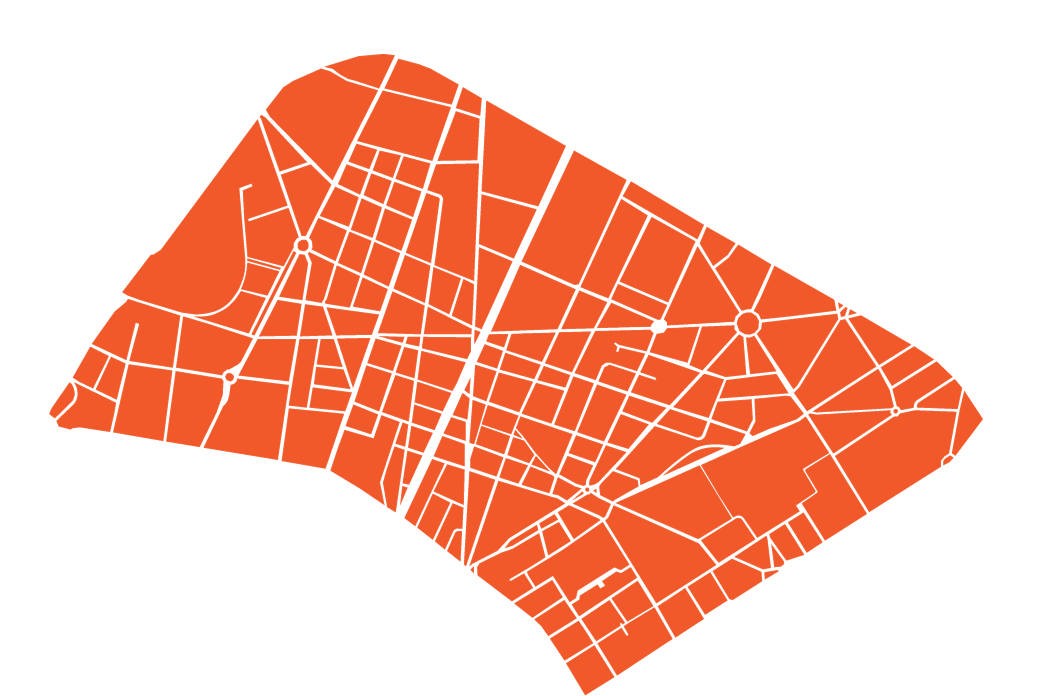
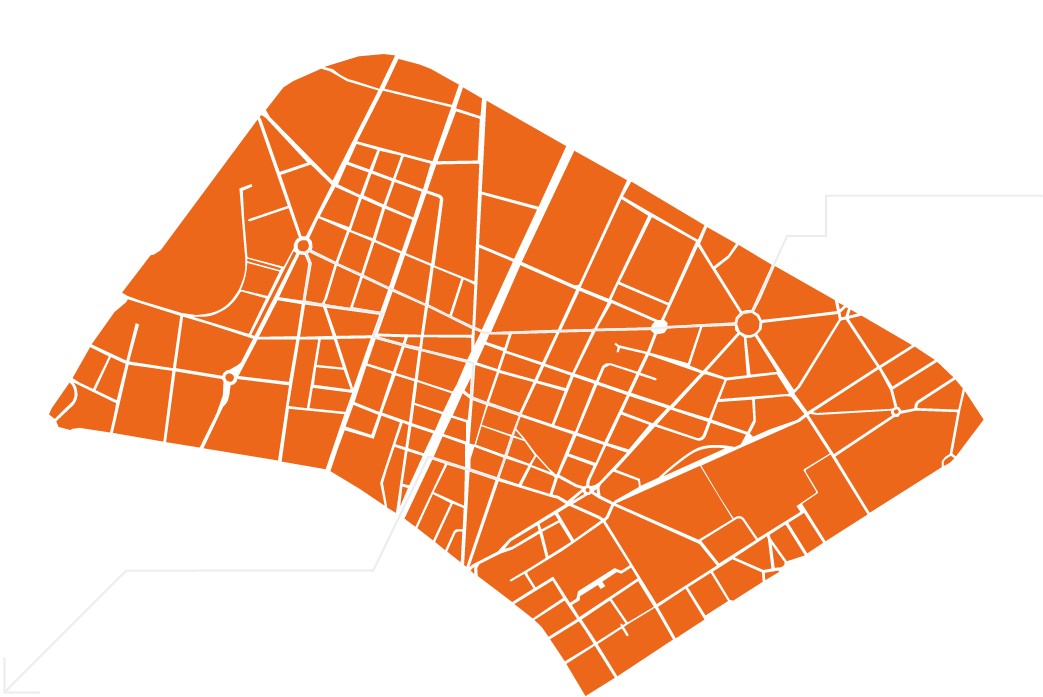
wip grafica

diff --git a/src/components/About.jsx b/src/components/About.jsx
@@ -1,4 +1,5 @@
 import './About.css'
+import ScrollingBanner from './ScrollingBanner'
 
 const About = () => {
     return (
@@ -8,7 +9,6 @@ const About = () => {
                     {/* Header */}
                     <h2 className="section-title">Call to Action <span className="text-accent">BarriEra / BarriE’</span></h2>
                     <h3 className="section-subtitle">Residenza artistica per giovani registi | <span className="text-white">Barriera di Milano (Torino)</span></h3>
-
                     <div className="text-block">
                         <p>
                             <span className="highlight-text">Barriera di Milano</span> è un quartiere che porta nel nome l’idea di confine, ma che nella vita quotidiana funziona più come un sistema di attraversamenti: lingue che si incrociano, generazioni che convivono, memorie che restano e visioni che spingono in avanti. <strong>BarriEra - BarriE’</strong> nasce da qui: dall’urgenza di trasformare il cinema in uno strumento di ascolto, di relazione e di restituzione.
@@ -23,7 +23,13 @@ const About = () => {
                             <strong>BarriEra / BarriE’</strong> diventa così una residenza artistica e, insieme, un esperimento collettivo: una produzione dal basso che trasforma l’osservazione in partecipazione, e il set in uno spazio di relazione.
                         </p>
                     </div>
+                </div>
+            </div>
 
+            <ScrollingBanner direction="right" />
+
+            <div className="container" style={{ marginTop: 'var(--spacing-md)' }}>
+                <div className="about-content">
                     <div className="bando-grid">
                         <div className="bando-column">
                             <h4 className="column-title">Obiettivo della call</h4>

diff --git a/src/index.css b/src/index.css
@@ -3,16 +3,16 @@
 
 :root {
   /* Colors - Blue/Red Palette */
-  --color-bg: #2559a9;
-  --color-surface: #1e4b8f;
+  --color-bg: #354F99;
+  --color-surface: #354F99;
   /* Slightly darker blue for gradients/surfaces */
   --color-primary: #ffffff;
   /* White text */
   --color-secondary: rgba(255, 255, 255, 1);
   /* Translucent white */
-  --color-accent: #f1592a;
+  --color-accent: #ec671a;
   /* Orange/Red accent */
-  --color-accent-glow: rgba(241, 89, 42, 0.4);
+  --color-accent-glow: rgba(237, 103, 26, 0.4);
 
   /* Typography */
   /* Fallback to geometric sans since 'Cy' is custom/unavailable. Outfit is a good match. */
@@ -53,6 +53,12 @@ body {
   overflow-x: hidden;
   -webkit-font-smoothing: antialiased;
   -moz-osx-font-smoothing: grayscale;
+  /*background-color: var(--color-bg);*/
+  background-image: url('./assets/texture-bg.png');
+  background-size: cover;
+  background-position: center;
+  background-attachment: fixed;
+  background-blend-mode: overlay;
 }
 
 h1,
@@ -114,4 +120,43 @@ button {
   display: flex;
   justify-content: center;
   align-items: center;
+}
+
+
+/* Scrolling Banner */
+.scrolling-banner-container {
+  width: 100vw;
+  position: relative;
+  overflow: hidden;
+  display: flex;
+  white-space: nowrap;
+  margin-top: var(--spacing-sm);
+}
+
+.scrolling-banner-wrapper {
+  display: flex;
+  height: 45px;
+  flex-wrap: nowrap;
+  animation: scroll-left 20s linear infinite;
+  border-bottom: 3px solid var(--color-accent);
+  border-top: 3px solid var(--color-accent);
+  align-items: center;
+}
+
+.scrolling-banner-img {
+  height: 30px;
+  /* Adjust as needed */
+  width: auto;
+  object-fit: contain;
+  flex-shrink: 0;
+}
+
+@keyframes scroll-left {
+  0% {
+    transform: translateX(0);
+  }
+
+  100% {
+    transform: translateX(-50%);
+  }
 }

diff --git a/src/components/ScrollingBanner.css b/src/components/ScrollingBanner.css
@@ -1,0 +1,57 @@
+/* Scrolling Banner */
+.scrolling-banner-container {
+    width: 100vw;
+    position: relative;
+    overflow: hidden;
+    display: flex;
+    white-space: nowrap;
+    margin-top: var(--spacing-sm);
+}
+
+.scrolling-banner-wrapper {
+    display: flex;
+    height: 45px;
+    flex-wrap: nowrap;
+    border-bottom: 3px solid var(--color-accent);
+    border-top: 3px solid var(--color-accent);
+    align-items: center;
+}
+
+.scrolling-banner-wrapper-left {
+    animation: scroll-left 20s linear infinite;
+}
+
+.scrolling-banner-wrapper-right {
+    /* For right scroll, we start from -50% and go to 0% */
+    animation: scroll-right 20s linear infinite;
+    transform: translateX(-50%);
+}
+
+
+
+.scrolling-banner-img {
+    height: 30px;
+    width: auto;
+    object-fit: contain;
+    flex-shrink: 0;
+}
+
+@keyframes scroll-left {
+    0% {
+        transform: translateX(0);
+    }
+
+    100% {
+        transform: translateX(-50%);
+    }
+}
+
+@keyframes scroll-right {
+    0% {
+        transform: translateX(-50%);
+    }
+
+    100% {
+        transform: translateX(0);
+    }
+}

diff --git a/src/components/Hero.css b/src/components/Hero.css
@@ -7,8 +7,8 @@
     align-items: center;
     justify-content: flex-start;
     /* Start from top as requested sequence is vertical */
-    padding: var(--spacing-lg) var(--spacing-sm) var(--spacing-sm) var(--spacing-sm);
-    background-color: var(--color-bg);
+    padding: var(--spacing-lg) 0 var(--spacing-sm) 0;
+    background-color: transparent;
     overflow-x: hidden;
 }
 
@@ -18,9 +18,17 @@
     display: flex;
     flex-direction: column;
     gap: var(--spacing-md);
-    align-items: flex-start;
-    /* Align text to left or center? User text block suggests standard reading. Let's try left-aligning for readability or center for impact. */
+    align-items: center;
     text-align: left;
+}
+
+.hero-text-container,
+.hero-logo-container,
+.hero-map-container,
+.mobile-participation-text {
+    padding: 0 var(--spacing-sm);
+    /* Add padding here since removed from hero-section */
+    width: 100%;
 }
 
 /* Logo Styles */

diff --git a/src/components/CallToAction.css b/src/components/CallToAction.css
@@ -1,6 +1,6 @@
 .cta-section {
     text-align: center;
-    background: linear-gradient(180deg, var(--color-bg) 0%, #1a1a1a 100%);
+    /* background: linear-gradient(180deg, var(--color-bg) 0%, #1a1a1a 100%); */
     padding-bottom: var(--spacing-md);
 }
 
@@ -15,6 +15,13 @@
     margin-bottom: var(--spacing-sm);
 }
 
+.footer-banner {
+    max-width: 100%;
+    height: auto;
+    margin-bottom: var(--spacing-lg);
+    opacity: 0.9;
+}
+
 .cta-text {
     font-size: 1.25rem;
     margin-bottom: var(--spacing-lg);
@@ -23,7 +30,8 @@
 .btn-primary {
     padding: 20px;
     background: #f25a2a;
-    box-shadow: 0px 0px 20px 0px #eb805f;
+    color: var(--color-secondary);
+    /* box-shadow: 0px 0px 20px 0px #eb805f; */
     border-radius: 8px;
     font-weight: bold;
 }

diff --git a/src/components/About.css b/src/components/About.css
@@ -1,7 +1,6 @@
 .about-section {
-    background-color: var(--color-bg);
+    background-color: transparent;
     border-top: 0px solid rgba(255, 255, 255, 0.05);
-    padding-bottom: var(--spacing-xl);
 }
 
 .about-content {
@@ -22,8 +21,8 @@
     font-size: 1.2rem;
     font-weight: 400;
     color: var(--color-secondary);
-    margin-bottom: var(--spacing-md);
-    border-bottom: 13px dotted #f25a2a;
+    /*margin-bottom: var(--spacing-md);
+    border-bottom: 13px dotted var(--color-accent);*/
     padding-bottom: var(--spacing-md);
 }
 
@@ -39,7 +38,7 @@
     font-size: 1.1rem;
     line-height: 1.6;
     color: #e0e0e0;
-    margin-bottom: var(--spacing-lg);
+    margin-bottom: var(--spacing-md);
 }
 
 .text-block p {

diff --git a/src/components/Hero.jsx b/src/components/Hero.jsx
@@ -2,6 +2,7 @@ import './Hero.css'
 import logo from '../assets/logo-bando.png'
 import mapDesktop from '../assets/barriera-map-line.png'
 import mapMobile from '../assets/barriera-map.png'
+import ScrollingBanner from './ScrollingBanner'
 
 const Hero = () => {
     return (
@@ -27,6 +28,9 @@ const Hero = () => {
                         le pratiche sociali e creative, le forme di convivenza e i <span className="highlight-text">futuri possibili</span>.
                     </p>
                 </div>
+
+                {/* Scrolling Banner */}
+                <ScrollingBanner />
 
                 {/* Map - Third Element */}
                 <div className="hero-map-container fade-in-up delay-2">

diff --git a/src/components/ScrollingBanner.jsx b/src/components/ScrollingBanner.jsx
@@ -1,0 +1,16 @@
+import React from 'react';
+import './ScrollingBanner.css';
+import bannerScorrevole from '../assets/banner-scorrevole.png';
+
+const ScrollingBanner = ({ direction = 'left' }) => {
+    return (
+        <div className="scrolling-banner-container fade-in-up delay-1">
+            <div className={`scrolling-banner-wrapper scrolling-banner-wrapper-${direction}`}>
+                <img src={bannerScorrevole} alt="Banner Scorrevole" className="scrolling-banner-img" />
+                <img src={bannerScorrevole} alt="Banner Scorrevole" className="scrolling-banner-img" />
+            </div>
+        </div>
+    );
+};
+
+export default ScrollingBanner;

diff --git a/src/components/CallToAction.jsx b/src/components/CallToAction.jsx
@@ -1,9 +1,12 @@
 import './CallToAction.css'
 
+import footerLogos from '../assets/footer-logos.png'
+
 const CallToAction = () => {
     return (
         <footer className="cta-section section">
             <div className="container cta-container">
+                <img src={footerLogos} alt="Loghi Partner" className="footer-banner" />
                 <div className="footer-links">
                     <span>&copy; 2026 Gomboc</span>
                     {/* <a href="#">Privacy</a>

diff --git a/index.html b/index.html
@@ -2,7 +2,7 @@
 <html lang="en">
   <head>
     <meta charset="UTF-8" />
-    <link rel="icon" type="image/svg+xml" href="/vite.svg" />
+    <link rel="icon" type="image/svg+xml" href="/favicon.png" />
     <meta name="viewport" content="width=device-width, initial-scale=1.0" />
     <title>BANDO IMPATTO - Amendola | Call for Directors</title>
     <meta name="description" content="Un'opportunità unica per i registi di domani. Partecipa al Bando Impatto promosso da Amendola." />

diff --git a/src/App.jsx b/src/App.jsx
@@ -2,6 +2,7 @@ import Hero from './components/Hero'
 import Timeline from './components/Timeline'
 import About from './components/About'
 import CallToAction from './components/CallToAction'
+import ScrollingBanner from './components/ScrollingBanner'
 
 function App() {
   return (
@@ -10,6 +11,7 @@ function App() {
         <Hero />
         <Timeline />
         <About />
+        <ScrollingBanner direction="left" />
         <CallToAction />
       </main>
     </div>

diff --git a/src/components/Timeline.css b/src/components/Timeline.css
@@ -1,6 +1,6 @@
 .timeline-section {
     position: relative;
-    background-color: var(--color-bg);
+    background-color: transparent;
     padding-top: var(--spacing-sm);
     padding-bottom: var(--spacing-sm);
 }
